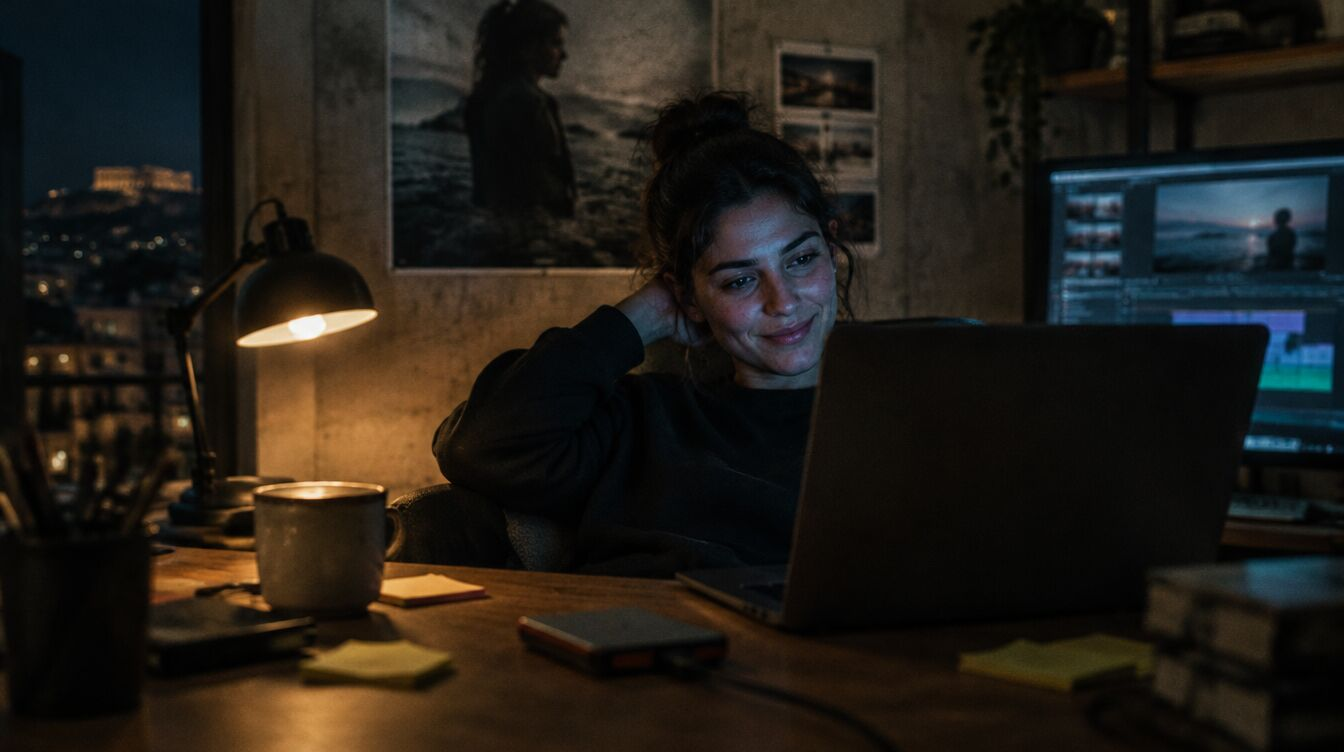
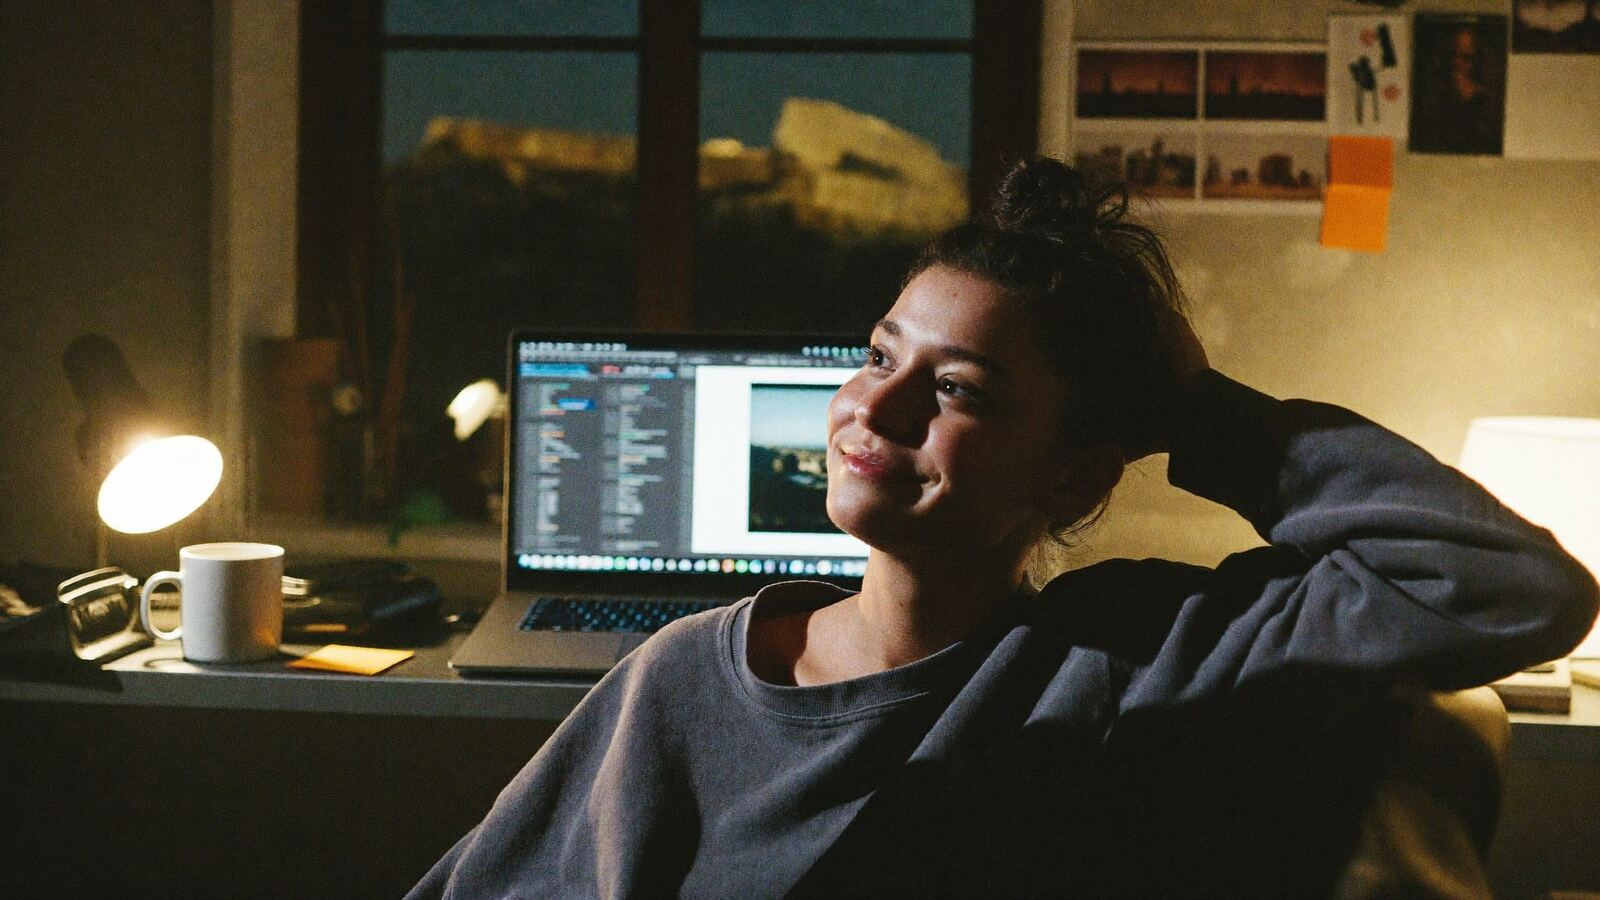
RoarMorph's page: the photos made again in Soul 2, more like real people; the before and after in a cinema frame (#839)
Claude-Session: https://claude.ai/code/session_01Kpb46TTszaG5z6YgJL7x6i

diff --git a/public/site/lab/roarmorph/index.html b/public/site/lab/roarmorph/index.html
@@ -444,8 +444,8 @@ footer nav { display: flex; gap: 18px; flex-wrap: wrap; } footer nav a:hover { c
 .scene-photo { margin: 0; position: relative; border-radius: 30px; overflow: hidden; border: 1px solid var(--line); aspect-ratio: 16 / 8; }
 .scene-photo img { width: 100%; height: 100%; object-fit: cover; object-position: 50% 40%; }
 .scene-photo::after { content: ''; position: absolute; inset: 0; background: linear-gradient(180deg, transparent 55%, rgba(18,20,23,.75)); pointer-events: none; }
-.scene-photo figcaption { position: absolute; left: clamp(18px, 2.4vw, 32px); bottom: clamp(16px, 2.2vw, 28px); z-index: 1; max-width: 42%; font-family: var(--mono); font-size: 12px; letter-spacing: .06em; color: rgba(238,240,243,.82); line-height: 1.5; }
-.scene .frame { position: absolute; right: clamp(-10px, 1vw, 24px); bottom: 0; width: 58%; margin: 0; max-width: none; }
+.scene-photo figcaption { position: absolute; right: clamp(18px, 2.4vw, 32px); text-align: right; bottom: clamp(16px, 2.2vw, 28px); z-index: 1; max-width: 42%; font-family: var(--mono); font-size: 12px; letter-spacing: .06em; color: rgba(238,240,243,.82); line-height: 1.5; }
+.scene .frame { position: absolute; left: clamp(-10px, 1vw, 24px); bottom: 0; width: 54%; margin: 0; max-width: none; }
 .ticker { margin-top: clamp(56px, 7vw, 96px); }
 /* the numbers */
 .nums-sec { padding-top: clamp(64px, 8vw, 120px); }
@@ -466,7 +466,7 @@ footer nav { display: flex; gap: 18px; flex-wrap: wrap; } footer nav a:hover { c
 .person b { font-family: Jost, var(--sans); font-size: clamp(22px, 2vw, 30px); font-weight: 700; line-height: 1.05; }
 .person figcaption > span:last-child { font-size: 14.5px; line-height: 1.5; color: rgba(238,240,243,.78); }
 /* before and after */
-.ba { position: relative; border-radius: 28px; overflow: hidden; border: 1px solid var(--line); aspect-ratio: 16 / 9; user-select: none; -webkit-user-select: none; touch-action: pan-y; box-shadow: 0 40px 120px rgba(0,0,0,.5); }
+.ba { position: relative; border-radius: 28px; overflow: hidden; border: 1px solid var(--line); aspect-ratio: 1600 / 717; user-select: none; -webkit-user-select: none; touch-action: pan-y; box-shadow: 0 40px 120px rgba(0,0,0,.5); }
 .ba img { position: absolute; inset: 0; width: 100%; height: 100%; object-fit: cover; }
 .ba img.after { clip-path: inset(0 0 0 var(--x)); }
 .ba-line { position: absolute; top: 0; bottom: 0; left: var(--x); width: 2px; margin-left: -1px; background: #fff; box-shadow: 0 0 18px rgba(0,0,0,.5); pointer-events: none; }
@@ -503,8 +503,8 @@ footer nav { display: flex; gap: 18px; flex-wrap: wrap; } footer nav a:hover { c
   .claim { font-size: clamp(50px, 15vw, 80px); }
   .scene { padding-bottom: 0; }
   .scene-photo { aspect-ratio: 4 / 5; border-radius: 24px; }
-  .scene-photo img { object-position: 58% 50%; }
-  .scene-photo figcaption { max-width: none; right: 18px; top: 16px; bottom: auto; }
+  .scene-photo img { object-position: 62% 50%; }
+  .scene-photo figcaption { max-width: none; left: 18px; right: 18px; text-align: left; top: 16px; bottom: auto; }
   .scene-photo::after { background: linear-gradient(180deg, rgba(18,20,23,.7), transparent 30%, transparent 70%, rgba(18,20,23,.6)); }
   .scene .frame { position: relative; right: auto; width: auto; margin: -64px 12px 0; }
   .people { grid-template-columns: minmax(0, 1fr); }
@@ -562,7 +562,7 @@ footer nav { display: flex; gap: 18px; flex-wrap: wrap; } footer nav a:hover { c
     <div class="hero-meta rv" style="--d:.32s"><a class="f-ver" href="#new"><b data-t="ver.b">New</b><span data-t="ver.t">in 0.5 · PSD layers, your own bitrate, Settings</span></a></div>
   </div>
   <div class="scene rv" style="--d:.18s">
-    <figure class="scene-photo"><img src="photo-night.jpg" alt="" width="1344" height="752" fetchpriority="high"><figcaption data-t="sc.cap">01:40, the night before the delivery. Eighteen files, one drop.</figcaption></figure>
+    <figure class="scene-photo"><img src="photo-night.jpg" alt="" width="1600" height="900" fetchpriority="high"><figcaption data-t="sc.cap">01:40, the night before the delivery. Eighteen files, one drop.</figcaption></figure>
     <div class="frame" aria-hidden="true">
       <img class="shotimg" id="win" src="results.jpg" alt="" width="1600" height="1000">
       <div class="tag t1"><i>01</i><span data-t="tag.size">A size in MB, not a guess</span></div>
@@ -631,8 +631,8 @@ footer nav { display: flex; gap: 18px; flex-wrap: wrap; } footer nav a:hover { c
     <p class="sub rv" data-t="cp.sub">Drag the line. On the left the 4K ProRes original, on the right what RoarMorph made of it with Share › MP4 H.265 › Balanced.</p>
   </div>
   <div class="ba rv" id="ba" style="--x:50%">
-    <img src="still.jpg" alt="" width="1344" height="752" loading="lazy">
-    <img class="after" src="still.jpg" alt="" width="1344" height="752" loading="lazy">
+    <img src="still.jpg" alt="" width="1600" height="717" loading="lazy">
+    <img class="after" src="still.jpg" alt="" width="1600" height="717" loading="lazy">
     <span class="ba-line" aria-hidden="true"><i><svg viewBox="0 0 24 24" fill="none" stroke="currentColor" stroke-width="2" stroke-linecap="round" stroke-linejoin="round"><path d="m9 6-6 6 6 6M15 6l6 6-6 6"/></svg></i></span>
     <span class="ba-tag l"><b data-t="cp.l">Original</b><small>ProRes 422 HQ · 4K · 18.4 GB</small></span>
     <span class="ba-tag r"><b>RoarMorph</b><small>H.265 · 4K · 742 MB · −96%</small></span>

diff --git a/HANDOVER.md b/HANDOVER.md
@@ -39,7 +39,7 @@ Projects (6 categories in this order: Music Video, Event, Editing, Ad, Visuals, 
 
 ## Where we stopped (30 Oct 2026, evening: RoarMorph's page as a product page)
 - Alex asked for the Lab's app pages to read like Apple, Google Store, Samsung and Airmail, with real photos of young people. Pilot: **lab/roarmorph/**. New order: a claim with a number ("2.4 GB in. 25 MB out."), a photo of an editor at night with the app's window over it, four numbers (−96%, 0.96 MB, 1 drop, €0), the formats ticker, On set (three photos: DIT, producer, edit, each with what RoarMorph does for them), Only here, Same picture (a before/after slider and size bars), For the shoot, Everything, Why Roar (four promises every Lab app makes, with Privacy and Terms), Download, Questions, and What's new moved to the end. EN and GR.
-- The photos (photo-night.jpg, photo-set.jpg, photo-van.jpg, photo-studio.jpg, still.jpg) are AI stand-ins from Higgsfield until Alex shoots real ones: same names and shapes (16:9 for photo-night and still, 4:5 for the three on set), and they drop in.
+- The photos (photo-night.jpg, photo-set.jpg, photo-van.jpg, photo-studio.jpg, still.jpg) are AI stand-ins from Higgsfield Soul 2 (Alex chose Soul 2 over GPT Image on 31 Oct; still.jpg is 2.23:1, the slider follows its shape) until Alex shoots real ones: same names and shapes (16:9 for photo-night and still, 4:5 for the three on set), and they drop in.
 - Next: if Alex likes it, the same structure for RoarKit, RoarWriter, RoarMail, RoarList.
 
 ## Where we stopped (30 Oct 2026, alexisk.gr's admin)
